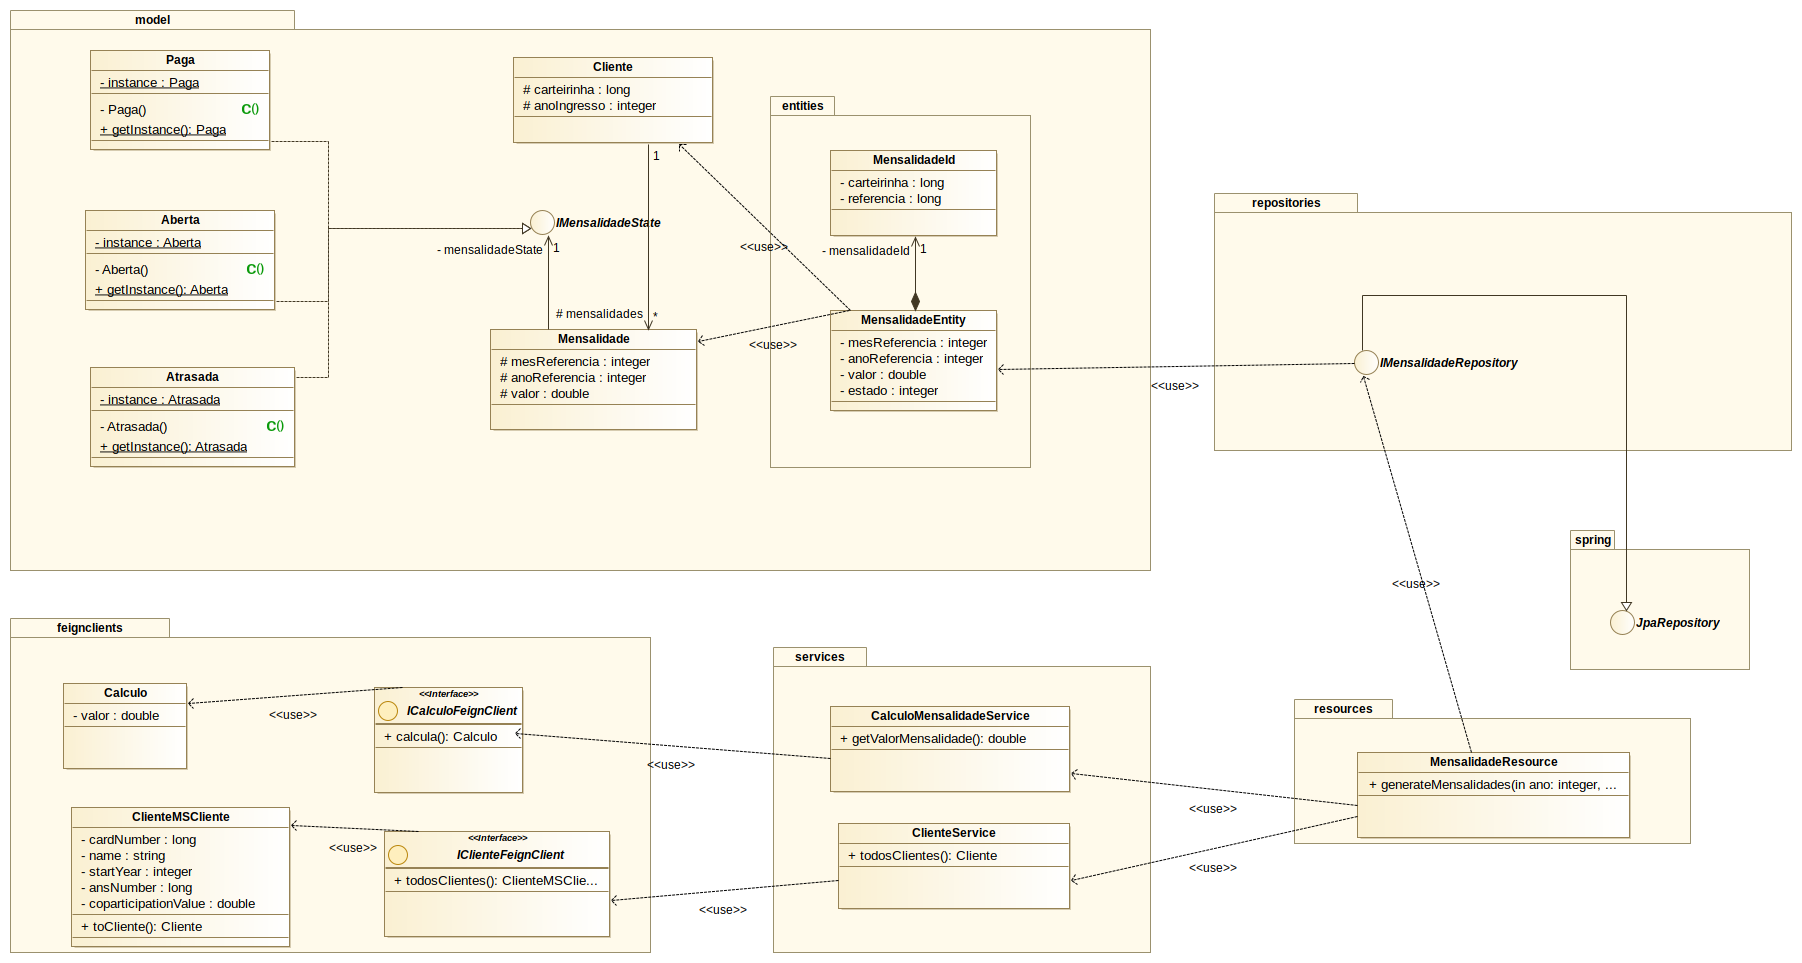
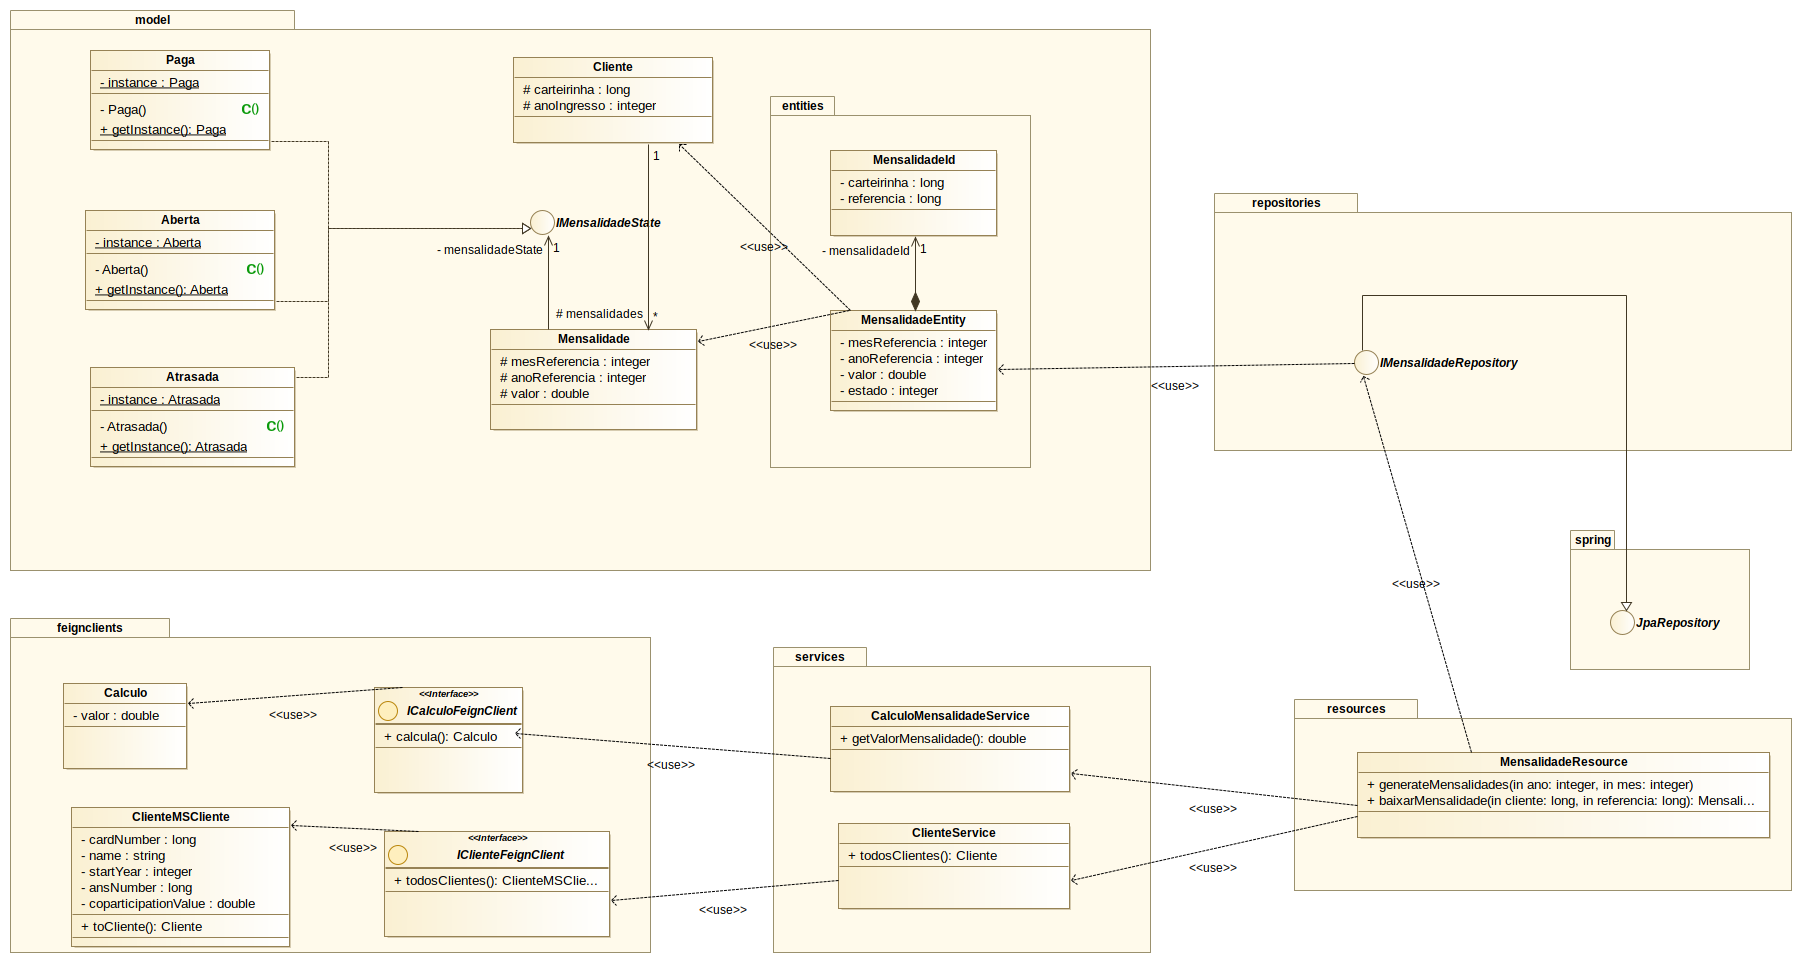
ms-mensalidade: adicionada funcionalidade de dar baixa em mensalidade

Changed region(s): [[0.7458, 0.7788, 0.9945, 0.8723], [0.7148, 0.7165, 0.7769, 0.7477]]

diff --git a/dsoo-ms-mensalidade/src/main/java/com/ednilsonrossi/msmensalidade/resources/MensalidadeResource.java b/dsoo-ms-mensalidade/src/main/java/com/ednilsonrossi/msmensalidade/resources/MensalidadeResource.java
@@ -16,6 +16,7 @@ import com.ednilsonrossi.msmensalidade.model.Aberta;
 import com.ednilsonrossi.msmensalidade.model.Cliente;
 import com.ednilsonrossi.msmensalidade.model.Mensalidade;
 import com.ednilsonrossi.msmensalidade.model.entities.MensalidadeEntity;
+import com.ednilsonrossi.msmensalidade.model.entities.MensalidadeId;
 import com.ednilsonrossi.msmensalidade.repositories.IMensalidadeRepository;
 import com.ednilsonrossi.msmensalidade.services.CalculoMensalidadeService;
 import com.ednilsonrossi.msmensalidade.services.ClienteService;
@@ -62,6 +63,17 @@ public class MensalidadeResource {
 		repository.saveAll(mensalidades);
 		
 		return ResponseEntity.ok(mensalidades);
+	}
+	
+	@GetMapping(value = "/{cliente}/ref/{referencia}")
+	public ResponseEntity<MensalidadeEntity> baixarMensalidade(@PathVariable long cliente, @PathVariable long referencia){
+		
+		MensalidadeEntity mEntity = repository.findById(new MensalidadeId(cliente, referencia)).get();
+		mEntity.setEstado(0);
+		repository.save(mEntity);
+		
+		return ResponseEntity.ok(mEntity);
+		
 	}
 	
 }

diff --git a/dsoo-ms-mensalidade/src/main/java/com/ednilsonrossi/msmensalidade/model/entities/MensalidadeEntity.java b/dsoo-ms-mensalidade/src/main/java/com/ednilsonrossi/msmensalidade/model/entities/MensalidadeEntity.java
@@ -34,7 +34,7 @@ public class MensalidadeEntity implements Serializable{
 	public MensalidadeEntity(Cliente cliente, Mensalidade mensalidade) {
 		this.mesReferencia = mensalidade.getMesReferencia();
 		this.anoReferencia = mensalidade.getAnoReferencia();
-		this.mensalidadeId = new MensalidadeId(cliente.getCarteirinha(), (this.mesReferencia * 10000 + this.anoReferencia) );
+		this.mensalidadeId = new MensalidadeId(cliente.getCarteirinha(), MensalidadeId.generateReference(this.anoReferencia, this.mesReferencia) );
 		this.valor = mensalidade.getValor();
 		defineEstado(mensalidade.getMensalidadeState());
 	}

diff --git a/dsoo-ms-mensalidade/src/main/java/com/ednilsonrossi/msmensalidade/repositories/IMensalidadeRepository.java b/dsoo-ms-mensalidade/src/main/java/com/ednilsonrossi/msmensalidade/repositories/IMensalidadeRepository.java
@@ -4,8 +4,11 @@ import org.springframework.data.jpa.repository.JpaRepository;
 import org.springframework.stereotype.Repository;
 
 import com.ednilsonrossi.msmensalidade.model.entities.MensalidadeEntity;
+import com.ednilsonrossi.msmensalidade.model.entities.MensalidadeId;
 
 @Repository
-public interface IMensalidadeRepository extends JpaRepository<MensalidadeEntity, Long>{
+public interface IMensalidadeRepository extends JpaRepository<MensalidadeEntity, MensalidadeId>{
 
+	
+	
 }

diff --git a/dsoo-ms-mensalidade/src/main/java/com/ednilsonrossi/msmensalidade/model/entities/MensalidadeId.java b/dsoo-ms-mensalidade/src/main/java/com/ednilsonrossi/msmensalidade/model/entities/MensalidadeId.java
@@ -38,5 +38,7 @@ public class MensalidadeId implements Serializable{
 		this.referencia = referencia;
 	}
 	
-	
+	public static long generateReference(int ano, int mes) {
+		return mes * 10000 + ano;
+	}
 }
